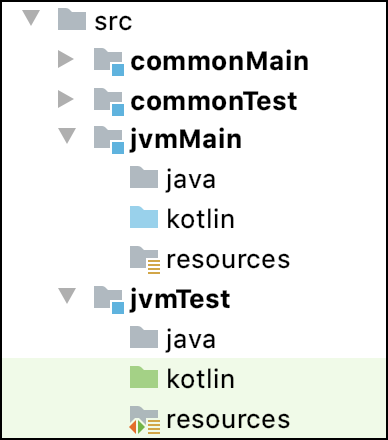
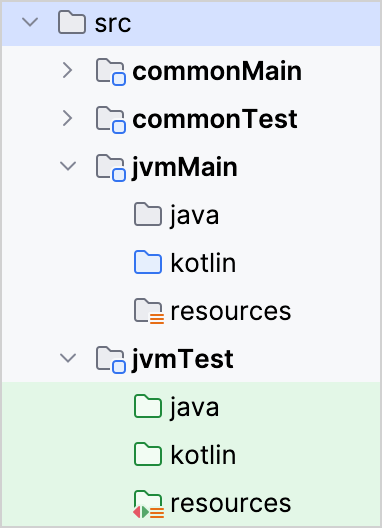
feat: compilation for JVM

diff --git a/docs/topics/multiplatform/multiplatform-configure-compilations.md b/docs/topics/multiplatform/multiplatform-configure-compilations.md
@@ -205,24 +205,87 @@ kotlin {
 You also need to create a custom compilation in other cases, for example, if you want to combine compilations for different 
 JVM versions in your final artifact, or you have already set up source sets in Gradle and want to migrate to a multiplatform project.
 
-## Use Java sources in JVM compilations
+## Compilation for JVM
 
-When creating a project with the [project wizard](https://kmp.jetbrains.com/), Java sources are created by default and included in the compilations of
-the JVM target.
+When you declare the `jvm` target in your multiplatform project, the Kotlin Multiplatform plugin automatically
+creates Java sources sets and includes them in the compilations of the JVM target.
 
-The Java source files are placed in the child directories of the Kotlin source roots. For example, the paths are:
+The common source sets can't include Java resources, so you should place them in the corresponding child directories
+of your multiplatform project. For example:
 
 ![Java source files](java-source-paths.png){width=200}
 
-The common source sets can't include Java sources.
+Currently, the Kotlin Multiplatform plugin replaces some tasks configured by the Java plugin:
 
-Due to current limitations, the Kotlin plugin replaces some tasks configured by the Java plugin:
+* JAR task: instead of a standard `jar`, it uses a target-specific task based on the artifact's name, for example,
+  `jvmJar` for the `jvm()` target declaration and `desktopJar` for `jvm("desktop")`.
+* Test task: instead of a standard `test`, it uses a target-specific task based on the artifact's name, for example, `jvmTest`.
+* Resource processing: instead of `*ProcessResources` tasks, resources are handled by the equivalent compilation tasks.
 
-* The target's JAR task instead of `jar` (for example, `jvmJar`).
-* The target's test task instead of `test` (for example, `jvmTest`).
-* The resources are processed by the equivalent tasks of the compilations instead of `*ProcessResources` tasks.
+These tasks are created automatically when the target is declared. However, you can manually define the JAR task
+and configure it if necessary:
 
-The publication of this target is handled by the Kotlin plugin and doesn't require steps that are specific for the Java plugin.
+<tabs group="build-script">
+<tab title="Kotlin" group-key="kotlin">
+
+```kotlin
+// Shared module's `build.gradle.kts` file
+plugins {
+    kotlin("multiplatform") version "%kotlinVersion%"
+}
+
+kotlin {
+    // Specify the JVM target
+    jvm {
+        // Add the task for JAR generation
+        tasks.named<Jar>(artifactsTaskName).configure {
+            // Configure the task
+        }
+    }
+
+    sourceSets {
+        jvmMain {
+            dependencies {
+                // Add JVM-specific dependencies
+            }
+        }
+    }
+}
+```
+
+</tab>
+<tab title="Groovy" group-key="groovy">
+
+```groovy
+// Shared module's `build.gradle` file
+plugins {
+    id 'org.jetbrains.kotlin.multiplatform' version '%kotlinVersion%'
+}
+
+kotlin {
+    // Specify the JVM target
+    jvm {
+        // Add the task for JAR generation
+        tasks.named<Jar>(artifactsTaskName).configure {
+            // Configure the task
+        }
+    }
+
+    sourceSets {
+        jvmMain {
+            dependencies {
+                // Add JVM-specific dependencies
+            }
+        }
+    }
+}
+```
+
+</tab>
+</tabs>
+
+The publication of this target is handled by the Kotlin Multiplatform plugin and doesn't require steps that are specific
+to the Java plugin.
 
 ## Configure interop with native languages
 

diff --git a/docs/topics/multiplatform/multiplatform-publish-lib.md b/docs/topics/multiplatform/multiplatform-publish-lib.md
@@ -44,11 +44,16 @@ Learn more about [adding dependencies](multiplatform-add-dependencies.md).
 
 This `kotlinMultiplatform` publication includes metadata artifacts and references the other publications as its variants.
 
-> Some repositories, such as Maven Central, require that the root module contains a JAR artifact without a classifier, for example `kotlinMultiplatform-1.0.jar`.  
-> The Kotlin Multiplatform plugin automatically produces the required artifact with the embedded metadata artifacts.  
-> This means you don't have to customize your build by adding an empty artifact to the root module of your library to meet the repository's requirements.
+Some repositories, such as Maven Central, require the root module to contain a JAR artifact without a classifier,
+for example `kotlinMultiplatform-1.0.jar`.
+The Kotlin Multiplatform plugin automatically produces the required artifact with the embedded metadata artifacts.
+This means you don't have to customize your build by adding an empty artifact to the root module of your library to
+meet the repository's requirements.
+
+> Learn more about JAR artifact generation with [Gradle](multiplatform-configure-compilations.md#compilation-for-jvm)
+> and [Maven](maven.md#create-jar-file) build systems.
 >
-{style="note"}
+{style="tip"}
 
 The `kotlinMultiplatform` publication may also need the sources and documentation artifacts if that is required by the repository. In that case, 
 add those artifacts by using [`artifact(...)`](https://docs.gradle.org/current/javadoc/org/gradle/api/publish/maven/MavenPublication.html#artifact-java.lang.Object-) 
